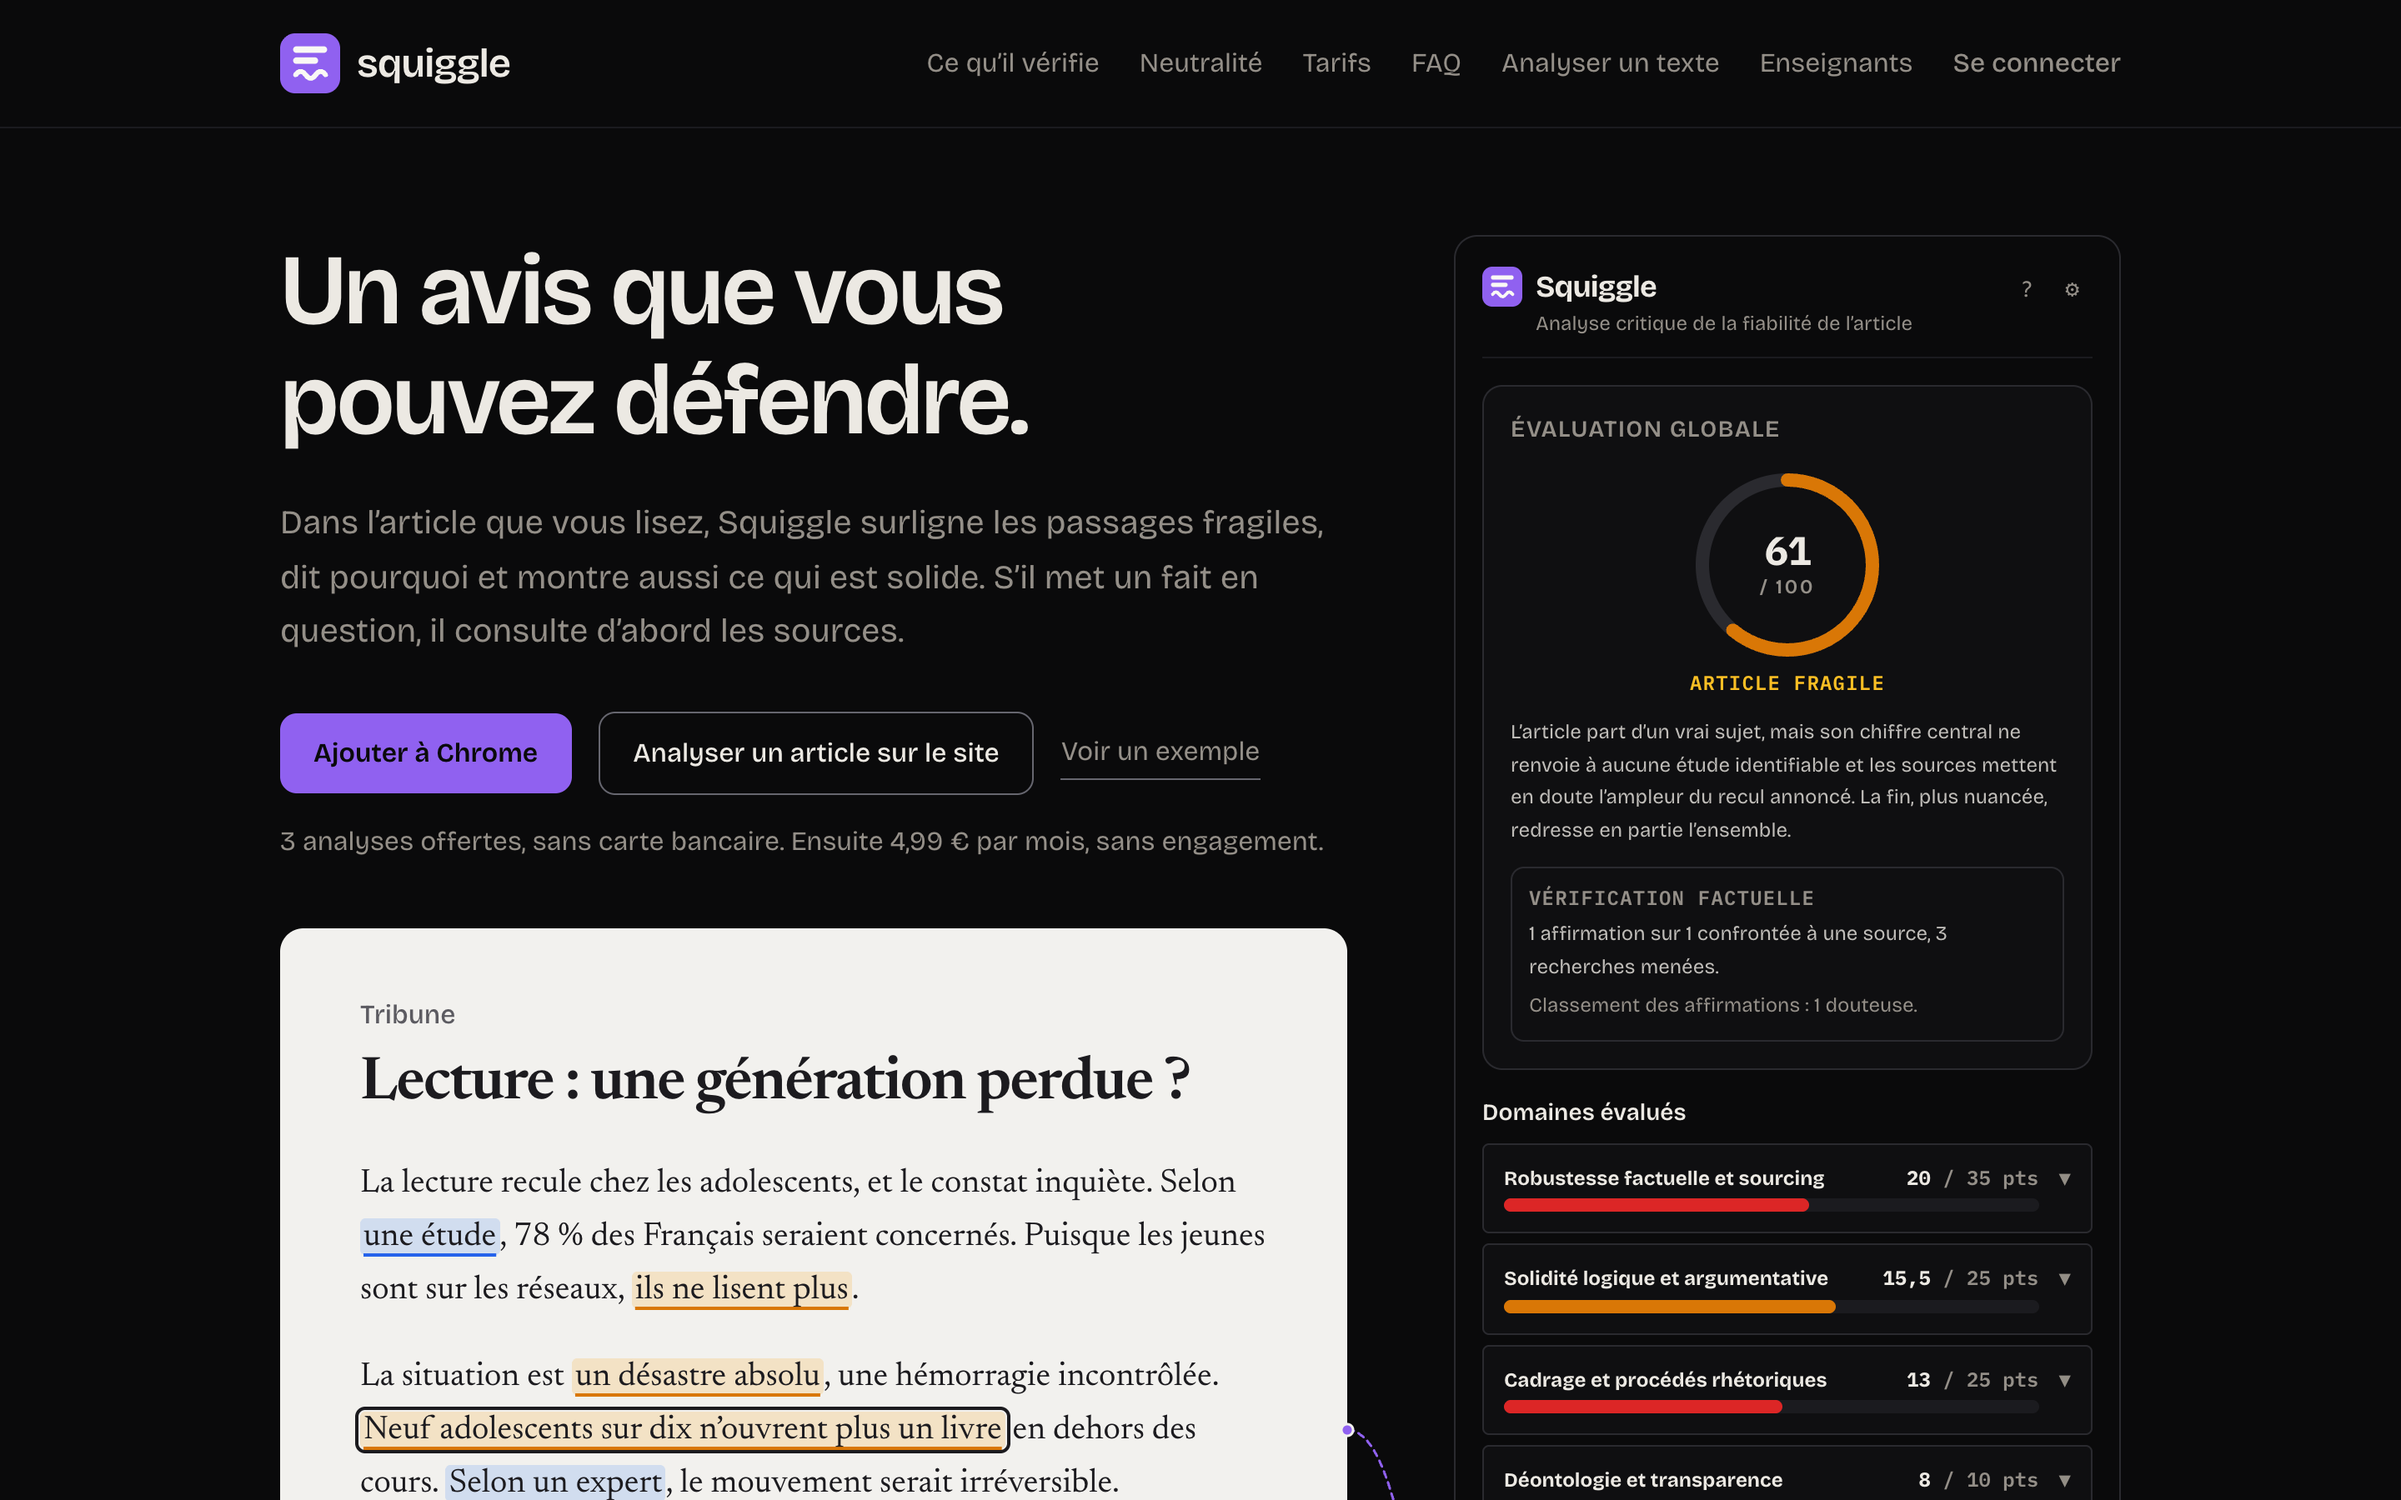
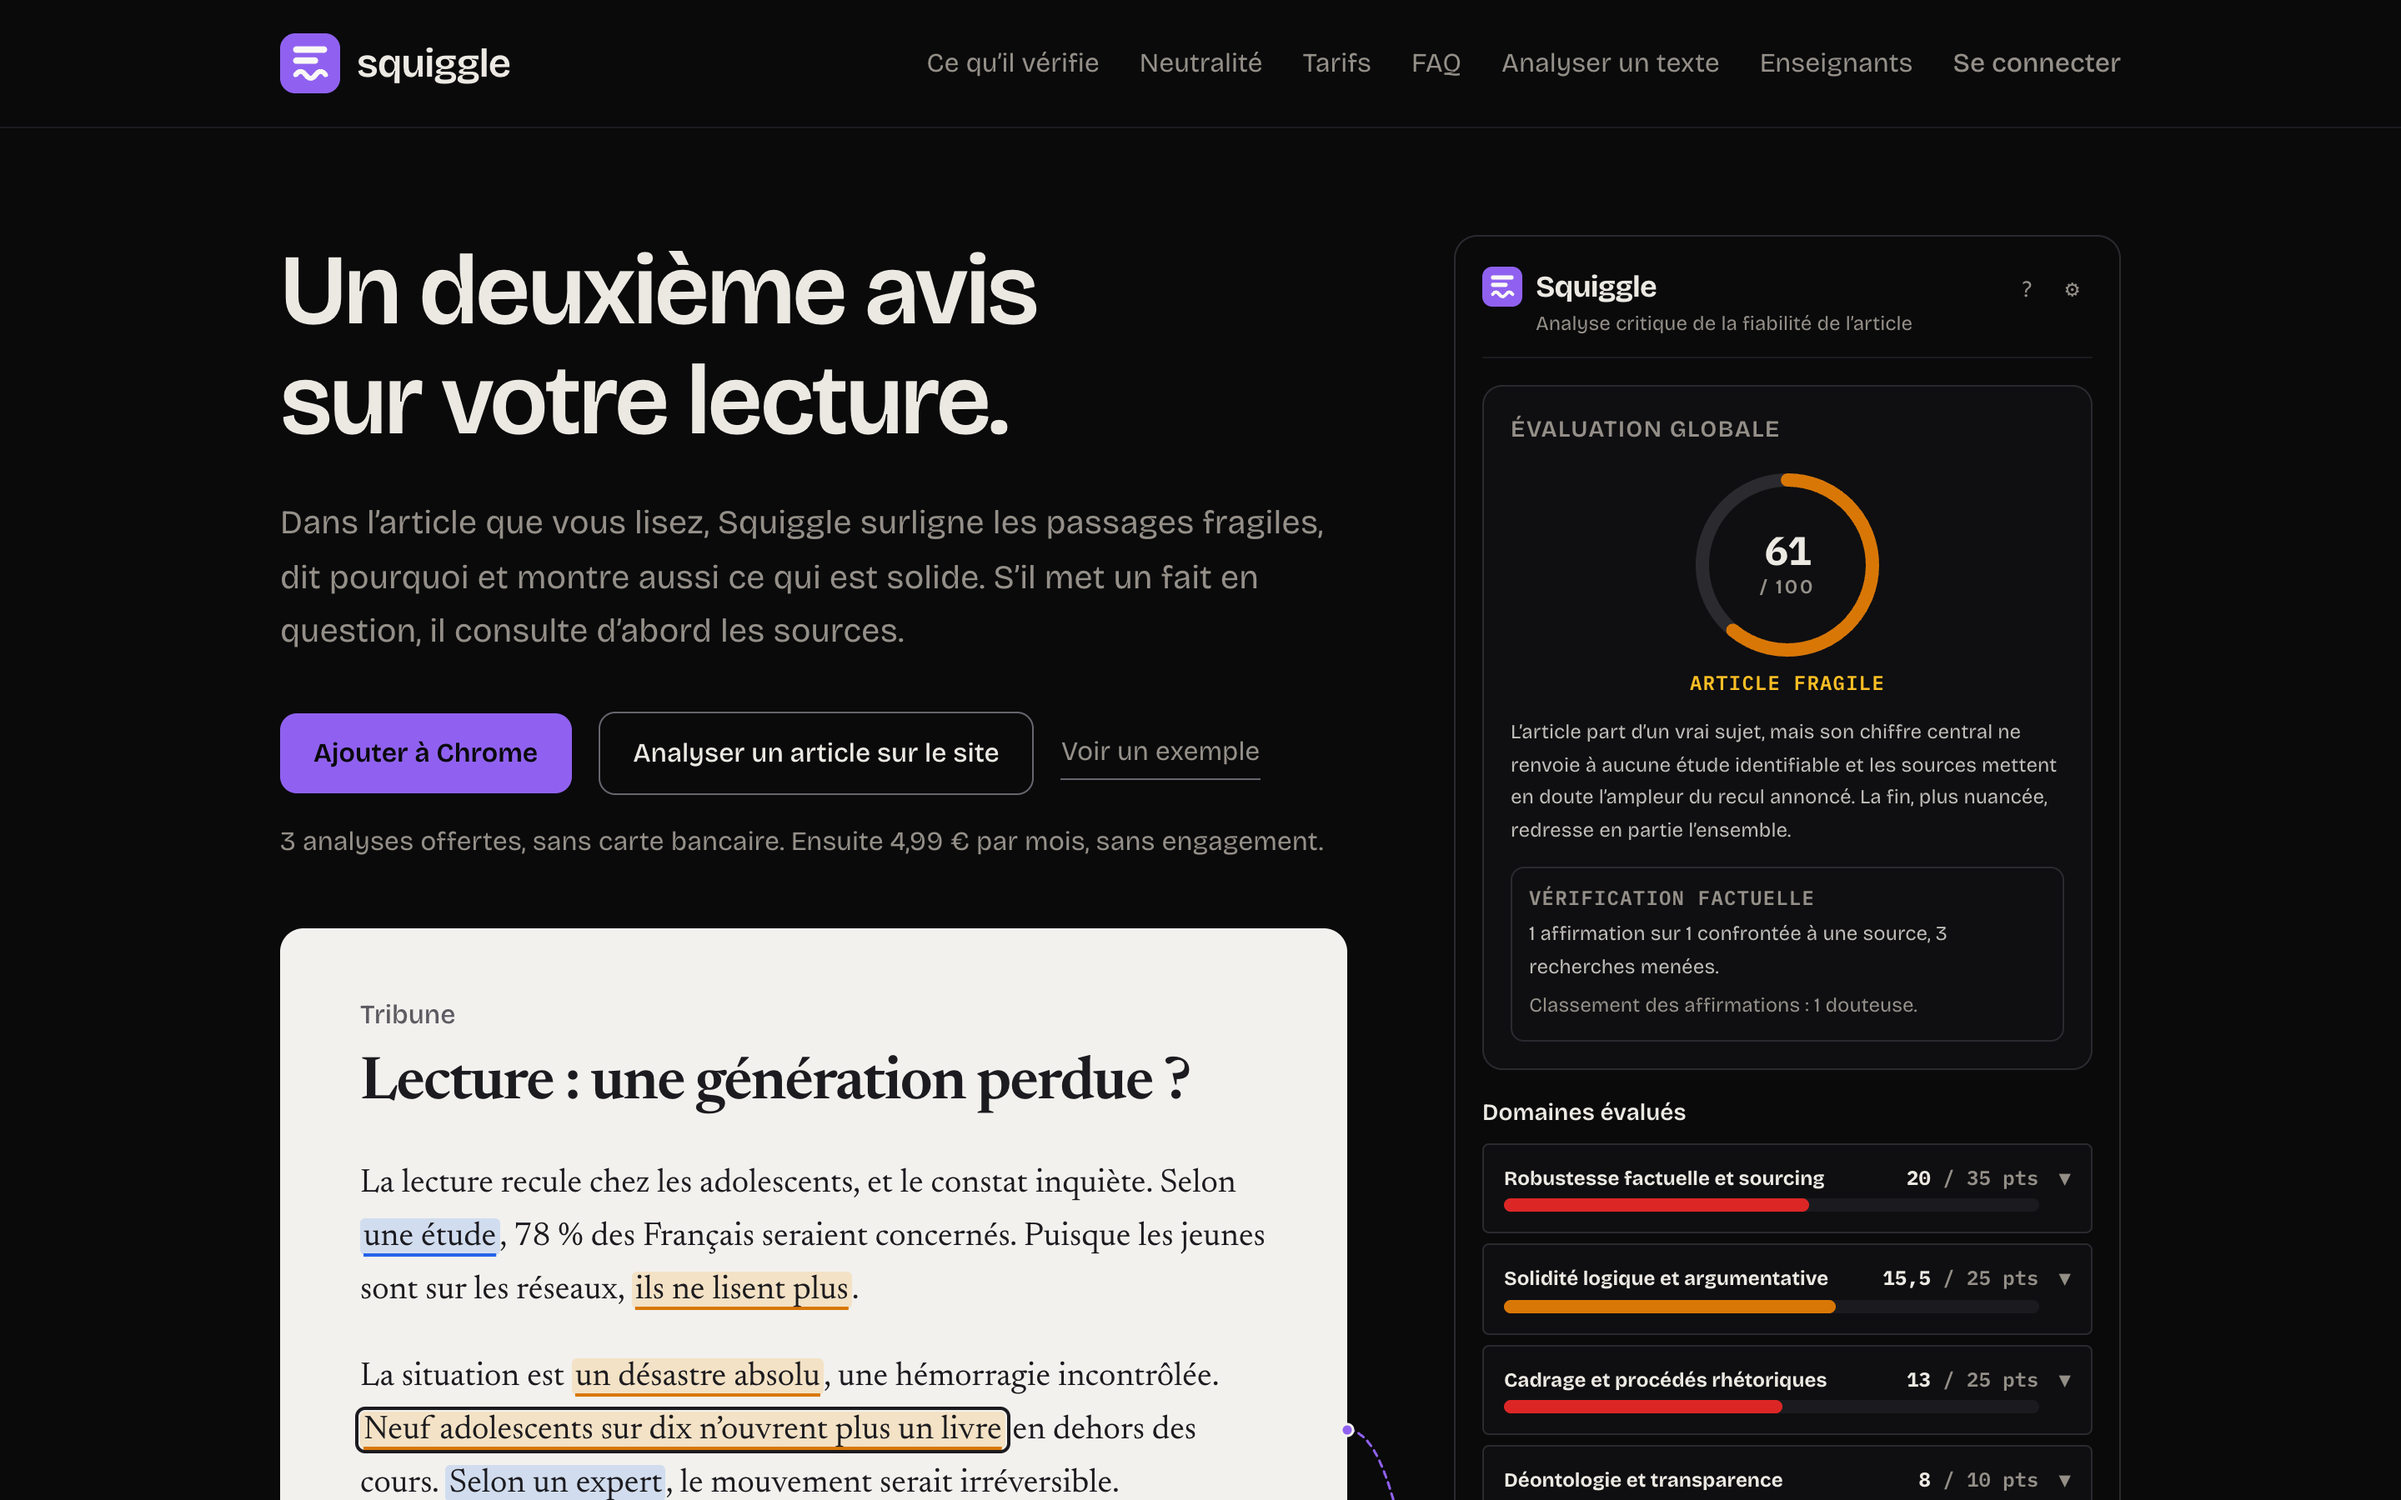
Web: lead the hero with "Un deuxième avis sur votre lecture."
The new headline replaces "Un avis que vous pouvez défendre." through
TAGLINE, so the hero and the footer brand line follow it; the page title and
og:title read "Squiggle : un deuxième avis sur votre lecture". The corrected
subtitle stays.

It breaks as "Un deuxième avis / sur votre lecture." from 375 to 1440 px,
and as "Un deuxième / avis sur / votre lecture." at 320 px, where "Un
deuxième avis" no longer fits on one line. og.png and the landing captures
are rendered again.

Changed region(s): [[0.125, 0.2489, 0.4375, 0.3111], [0.1562, 0.1556, 0.4375, 0.2178]]

diff --git a/web/index.html b/web/index.html
@@ -9,12 +9,12 @@
     />
     <meta name="robots" content="index, follow" />
     <meta name="theme-color" content="#0a0a0b" />
-    <title>Squiggle : un avis que vous pouvez défendre</title>
+    <title>Squiggle : un deuxième avis sur votre lecture</title>
     <meta property="og:type" content="website" />
     <meta property="og:site_name" content="Squiggle" />
     <meta property="og:locale" content="fr_FR" />
     <meta property="og:url" content="https://squiggle.fr/" />
-    <meta property="og:title" content="Squiggle : un avis que vous pouvez défendre" />
+    <meta property="og:title" content="Squiggle : un deuxième avis sur votre lecture" />
     <meta
       property="og:description"
       content="Squiggle surligne les passages fragiles de l’article que vous lisez, dit pourquoi et montre ce qui est solide. 3 analyses offertes."

diff --git a/web/src/offer.ts b/web/src/offer.ts
@@ -10,7 +10,7 @@ export const SUBSCRIBE_LABEL = `S’abonner : ${PRICE_MONTHLY}/mois`;
  * the page title and the link preview, and a test keeps the two in step; `og.png` is a
  * rendering of the hero and is captured again when it changes.
  */
-export const TAGLINE = 'Un avis que vous pouvez défendre.';
+export const TAGLINE = 'Un deuxième avis sur votre lecture.';
 
 export const GITHUB_URL = 'https://github.com/TheGlitching/Squiggle';
 
